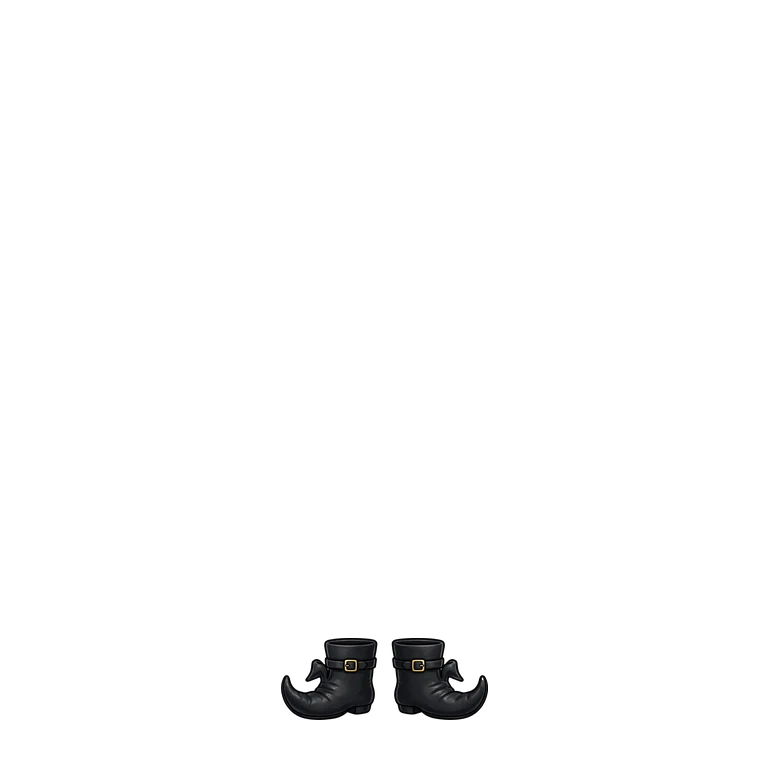
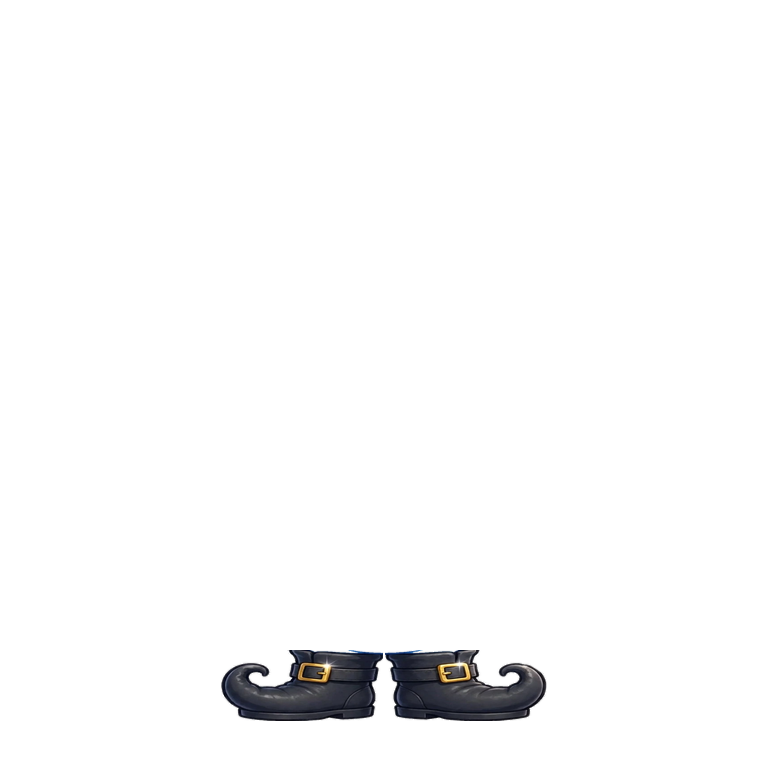
Pi: thay giày nhọn phù thuỷ halloween-nam-giay01 bản Muse vẽ riêng (phủ kín bàn chân, mũi cong ra ngoài)
npm test đạt.

Claude-Session: https://claude.ai/code/session_0163KSZYdzHDud2uG42gs7mp

Changed region(s): [[0.2812, 0.8125, 0.7188, 0.9375]]

diff --git a/scripts/pi/build.py b/scripts/pi/build.py
@@ -96,7 +96,7 @@ for side in ("trai", "phai"):
 # 24/10 soát từng món: vệt lá cũ sót xa gốc lá (vùng rộng; KHÔNG áp chung vì vòng hoa có lá thật)
 # 24/10 tối (chủ dự án chốt): món Muse vẽ RIÊNG trên nền trong suốt → chỉ đặt đè lên, KHÔNG chạy bộ cắt lá / vụn (cắt nhầm mũ xanh lá)
 STANDALONE = {  # 25/10: món vẽ riêng đã duyệt ghép
-              "giangsinh-nam-dau01", "giangsinh-nam-dau02", "giangsinh-nam-dau03", "giangsinh-nam-dau04", "giangsinh-nam-dau05", "giangsinh-nam-pk03", "giangsinh-nam-pk12", "giangsinh-nu-dau01", "giangsinh-nu-dau02", "giangsinh-nu-dau04", "giangsinh-nu-pk03", "halloween-nam-dau01", "halloween-nam-dau02", "halloween-nam-dau05", "halloween-nam-pk04", "halloween-nu-dau01", "muadong-nam-dau01", "muadong-nam-dau02", "muadong-nam-dau03", "muadong-nam-dau05", "muadong-nam-pk01", "muadong-nam-pk02", "muadong-nam-pk11", "muadong-nu-dau01", "muadong-nu-dau03", "muadong-nu-dau04", "muadong-nu-pk01", "muadong-nu-pk02", "muahe-nam-dau01", "muahe-nam-dau02", "muahe-nam-dau03", "muahe-nam-dau04", "muahe-nam-pk12", "muahe-nu-dau01", "muahe-nu-dau02", "muahe-nu-dau04", "tet-nam-dau01", "tet-nam-dau02", "tet-nam-dau03", "tet-nam-dau04", "tet-nam-pk03", "tet-nam-pk11", "tet-nu-dau01", "tet-nu-dau02", "tet-nu-dau03", "tet-nu-dau05", "tet-nu-pk04", "tet-nu-pk11", "trungthu-nam-dau01", "trungthu-nam-dau02", "trungthu-nam-dau03", "trungthu-nam-dau04", "trungthu-nam-dau05", "trungthu-nam-pk09", "trungthu-nam-pk10", "trungthu-nam-pk11", "trungthu-nu-dau02", "trungthu-nu-dau05", "trungthu-nu-pk10", "giangsinh-nam-giay01", "muahe-nu-giay02", "giangsinh-nam-giay02", "giangsinh-nam-giay03", "giangsinh-nu-giay01", "giangsinh-nu-giay02", "giangsinh-nu-giay03", "halloween-nam-giay02", "halloween-nam-giay03", "halloween-nu-giay01", "halloween-nu-giay03", "muadong-nam-giay01", "muadong-nam-giay02", "muadong-nam-giay03", "muadong-nu-giay01", "muadong-nu-giay03", "muahe-nam-giay01", "muahe-nam-giay02", "muahe-nu-giay01", "muahe-nu-giay03", "tet-nam-giay01", "tet-nam-giay03", "tet-nu-giay01", "tet-nu-giay02", "tet-nu-giay03", "trungthu-nam-giay01", "trungthu-nam-giay02", "trungthu-nam-giay03", "trungthu-nu-giay01", "trungthu-nu-giay02", "trungthu-nu-giay03", "muahe-nam-giay03"}
+              "giangsinh-nam-dau01", "giangsinh-nam-dau02", "giangsinh-nam-dau03", "giangsinh-nam-dau04", "giangsinh-nam-dau05", "giangsinh-nam-pk03", "giangsinh-nam-pk12", "giangsinh-nu-dau01", "giangsinh-nu-dau02", "giangsinh-nu-dau04", "giangsinh-nu-pk03", "halloween-nam-dau01", "halloween-nam-dau02", "halloween-nam-dau05", "halloween-nam-pk04", "halloween-nu-dau01", "muadong-nam-dau01", "muadong-nam-dau02", "muadong-nam-dau03", "muadong-nam-dau05", "muadong-nam-pk01", "muadong-nam-pk02", "muadong-nam-pk11", "muadong-nu-dau01", "muadong-nu-dau03", "muadong-nu-dau04", "muadong-nu-pk01", "muadong-nu-pk02", "muahe-nam-dau01", "muahe-nam-dau02", "muahe-nam-dau03", "muahe-nam-dau04", "muahe-nam-pk12", "muahe-nu-dau01", "muahe-nu-dau02", "muahe-nu-dau04", "tet-nam-dau01", "tet-nam-dau02", "tet-nam-dau03", "tet-nam-dau04", "tet-nam-pk03", "tet-nam-pk11", "tet-nu-dau01", "tet-nu-dau02", "tet-nu-dau03", "tet-nu-dau05", "tet-nu-pk04", "tet-nu-pk11", "trungthu-nam-dau01", "trungthu-nam-dau02", "trungthu-nam-dau03", "trungthu-nam-dau04", "trungthu-nam-dau05", "trungthu-nam-pk09", "trungthu-nam-pk10", "trungthu-nam-pk11", "trungthu-nu-dau02", "trungthu-nu-dau05", "trungthu-nu-pk10", "giangsinh-nam-giay01", "muahe-nu-giay02", "giangsinh-nam-giay02", "giangsinh-nam-giay03", "giangsinh-nu-giay01", "giangsinh-nu-giay02", "giangsinh-nu-giay03", "halloween-nam-giay02", "halloween-nam-giay03", "halloween-nu-giay01", "halloween-nu-giay03", "muadong-nam-giay01", "muadong-nam-giay02", "muadong-nam-giay03", "muadong-nu-giay01", "muadong-nu-giay03", "muahe-nam-giay01", "muahe-nam-giay02", "muahe-nu-giay01", "muahe-nu-giay03", "tet-nam-giay01", "tet-nam-giay03", "tet-nu-giay01", "tet-nu-giay02", "tet-nu-giay03", "trungthu-nam-giay01", "trungthu-nam-giay02", "trungthu-nam-giay03", "trungthu-nu-giay01", "trungthu-nu-giay02", "trungthu-nu-giay03", "muahe-nam-giay03", "halloween-nam-giay01"}
 SHOE_SCALE = {}  # 25/10: guốc tet-nu-giay02 vẽ lại đúng cỡ
 LEAF_WIDE = {"giangsinh-nam-dau05", "trungthu-nam-dau03", "muahe-nam-dau05", "trungthu-nu-dau02"}
 ARM_HIDE = {"giangsinh-nam-pk07": "trai", "muadong-nam-pk08": "trai", "muadong-nu-pk08": "trai", "muahe-nam-pk05": "trai",
